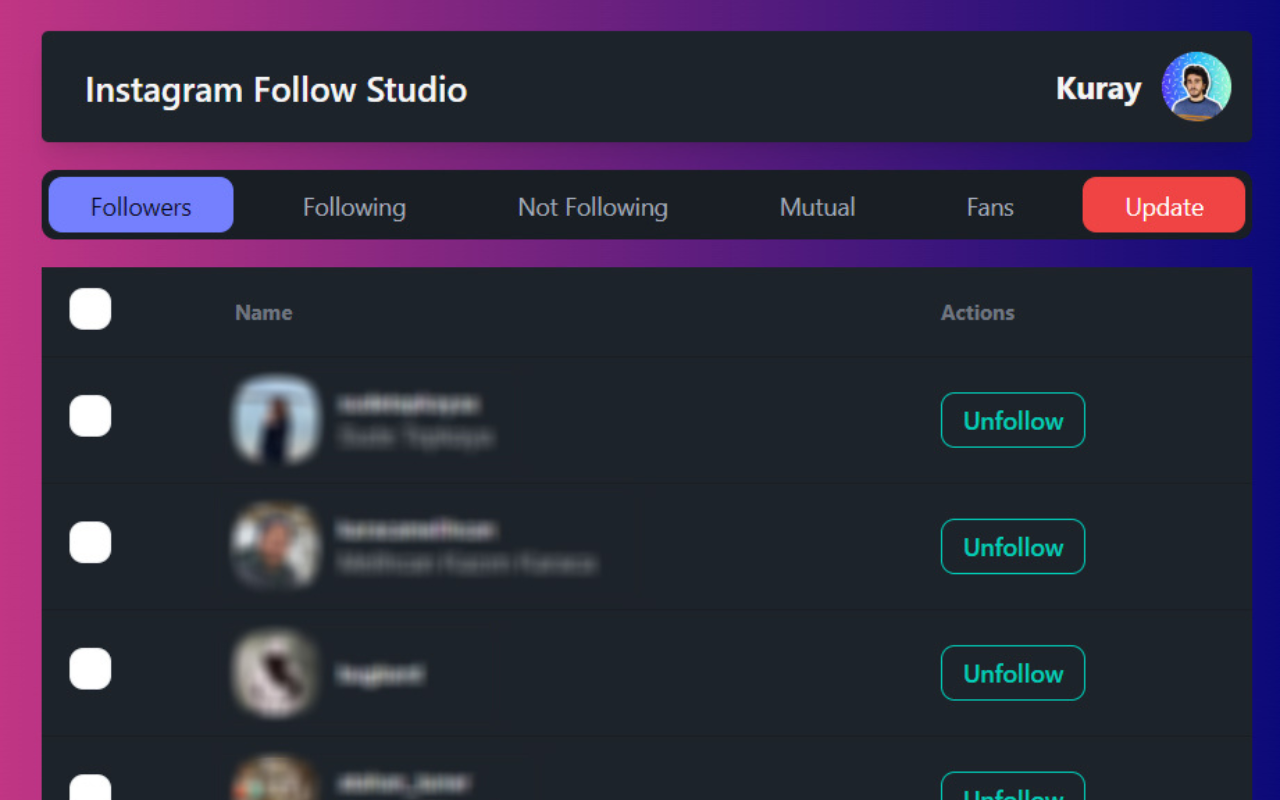
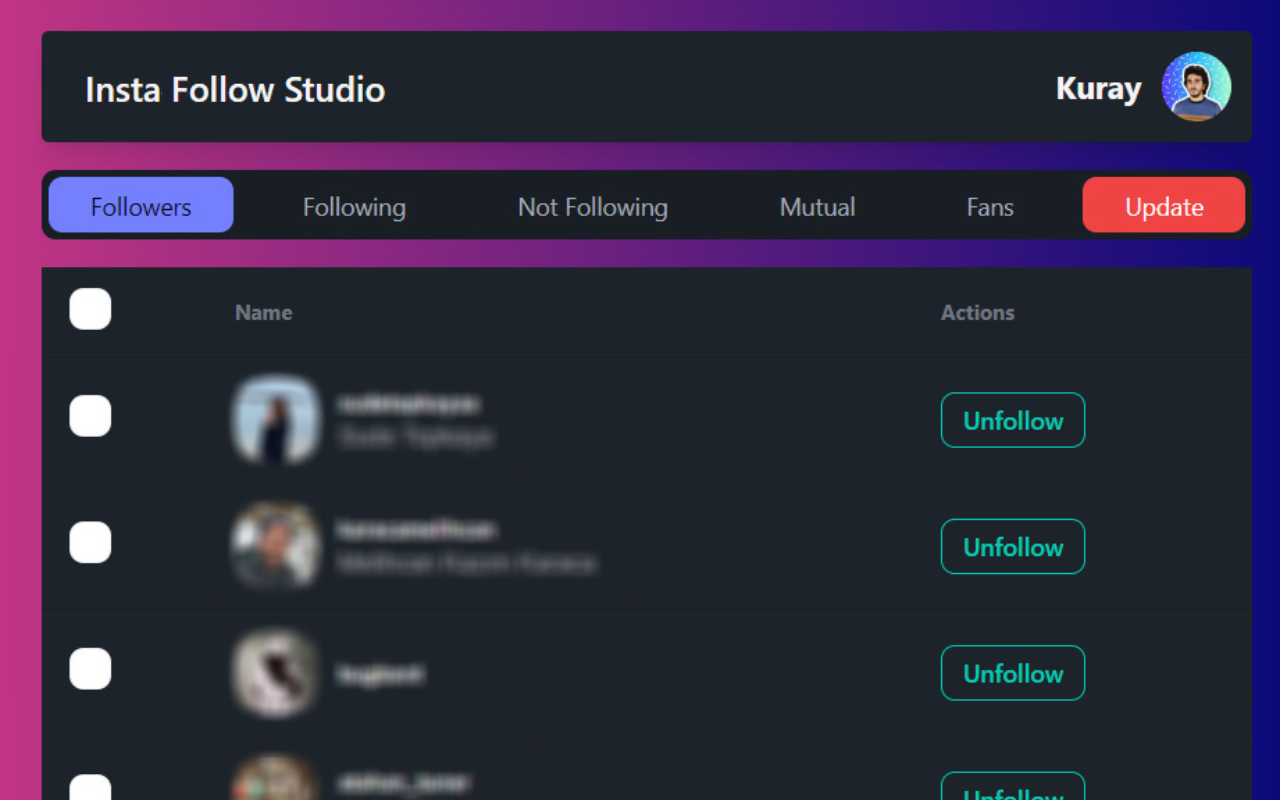
Finalize

Changed region(s): [[0.125, 0.0938, 0.375, 0.1562]]

diff --git a/src/utils/actions.tsx b/src/utils/actions.tsx
@@ -118,14 +118,16 @@ function addUserToStorage(user: User): Promise<User[]> {
 
 async function fetchUserFromAPI(username: string): Promise<User> {
   const fetchUrl = `https://www.instagram.com/${username}/?__a=1&__d=dis`;
+  
 
   try {
     const response = await fetch(fetchUrl);
     const json = await response.json();
 
     const graphql = json?.graphql;
-    const user = json?.graphql?.user;
+    const useritem = json?.graphql?.user;
 
+    const user = useritem?.user;
     console.log(json);
 
     if (graphql === undefined || user === undefined) {
@@ -156,6 +158,49 @@ async function fetchUserFromAPI(username: string): Promise<User> {
     throw error;
   }
 }
+
+async function fetchUserFromSearchAPI(username: string): Promise<User> {
+  const fetchUrl = `https://www.instagram.com/web/search/topsearch/?context=blended&query=${username}&rank_token=0.3953592318270893&include_reel=true`;
+    try {
+      const response = await fetch(fetchUrl);
+      const json = await response.json();
+
+      const users = json?.users;
+      const user = json?.users[0]?.user;
+
+      console.log(json);
+
+      if (users === undefined || user === undefined) {
+        throw new Error('graphql is undefined');
+      }
+
+      if (!user) {
+        throw new Error('user is undefined');
+      }
+
+      const newUser: User = {
+        username: user?.username,
+        id: user?.id,
+        profilePicUrl: user?.profile_pic_url,
+        isPrivate: user?.is_private,
+        isVerified: user?.is_verified,
+        fullName: user?.full_name,
+        biography: user?.biography,
+        externalUrl: "https://www.instagram.com/" + user?.username,
+        followedByCount: 0,
+        followCount: 0,
+      };
+
+      console.log(newUser);
+      
+      return newUser;
+
+    } catch (error) {
+      throw error;
+    }
+  
+}
+
 
 function getSnapshotsFromStorage(): Promise<Snapshot[]> {
   return new Promise<Snapshot[]>((resolve, reject) => {
@@ -248,6 +293,48 @@ async function createSnapshot(user: User): Promise<Snapshot> {
   return snapshot;
 }
 
+async function createSnapshotFromUsername(username: string, userid: string): Promise<Snapshot> {
+
+  var userId = Number(userid);
+  console.log(userId);
+
+  var snapshot: Snapshot = {
+    timestamp: new Date(),
+    userid: userid,
+    followers: [] as ThirdPerson[],
+    following: [] as ThirdPerson[],
+  };
+
+  await counter(userId).then((data) => {
+    // CREATE SNAPSHOT
+
+    data?.followers?.forEach((f: any) => {
+      snapshot.followers.push({
+        username: f?.username,
+        id: f?.pk,
+        profilePicUrl: f?.profile_pic_url,
+        fullName: f?.full_name,
+      });
+    });
+
+    data?.following?.forEach((f: any) => {
+      snapshot.following.push({
+        username: f?.username,
+        id: f?.pk,
+        profilePicUrl: f?.profile_pic_url,
+        fullName: f?.full_name,
+      });
+    });
+
+
+  }).then(() => {
+    addSnapshotToStorage(snapshot);
+  });
+
+  return snapshot;
+}
+
+
 function getUserSnapshots(user: User): Promise<Snapshot[]> {
   return new Promise<Snapshot[]>((resolve, reject) => {
     getSnapshotsFromStorage()
@@ -272,4 +359,6 @@ export {
   createSnapshot,
   getUserSnapshots,
   unfollowUser,
+  fetchUserFromSearchAPI,
+  createSnapshotFromUsername,
 };

diff --git a/src/components/Table.tsx b/src/components/Table.tsx
@@ -2,7 +2,7 @@ import React, { useState, useEffect } from 'react';
 
 import { User, Snapshot, ThirdPerson } from '../utils/types';
 
-import { getUserSnapshots, createSnapshot, unfollowUser } from '../utils/actions';
+import { getUserSnapshots, createSnapshot, unfollowUser , createSnapshotFromUsername} from '../utils/actions';
 
 
 const Table = (user: any) => {
@@ -73,21 +73,46 @@ const Table = (user: any) => {
 
         } catch (error) {
             // Handle the error appropriately
-            setError("Something went wrong. Please try again later.");
+            setError("Something went wrong. Please try again later: " + error);
+
         }
     };
 
 
     const handleSnapshot = async () => {
         try {
-            const snapshot = await createSnapshot(user);
+            //check if user is present
+            const currentUser = user;
+            
+
+            console.log(user);
+            const snapshot = await createSnapshot(currentUser);
             setSnapshot(snapshot);
             setError("");
         } catch (error) {
             // Handle the error appropriately
-            setError("Something went wrong. Please try again later.");
+            setError("Something went wrong. Please try again later: " + error);
         }
     };
+
+    const handleSnapshotNew = async (username: string) => {
+        try {
+            //check if user is present
+            console.log(username);
+            if (user.username !== username) {
+                setError("Please update the user first");
+                return;
+            }
+            
+            const currentUser = await createSnapshotFromUsername(username, user.id);
+            setSnapshot(currentUser);
+            setError("");
+        } catch (error) {
+            // Handle the error appropriately
+            setError("Something went wrong. Please try again later: " + error);
+        }
+    }
+
 
 
     const pageUp = () => {
@@ -129,7 +154,7 @@ const Table = (user: any) => {
                 <a role="tab" className={`tab ${activeTab === 'notFollowing' ? 'tab-active' : ''}`} onClick={() => handleTabClick('notFollowing')}>Not Following</a>
                 <a role="tab" className={`tab ${activeTab === 'mutual' ? 'tab-active' : ''}`} onClick={() => handleTabClick('mutual')}>Mutual</a>
                 <a role="tab" className={`tab ${activeTab === 'fans' ? 'tab-active' : ''}`} onClick={() => handleTabClick('fans')}>Fans</a>
-                <a role="tab" className={`tab bg-red-500 text-white`} onClick={() => handleSnapshot()}>Update</a>
+                <a role="tab" className={`tab bg-red-500 text-white`} onClick={() => handleSnapshotNew(user.username)}>Update FOR {user.username}</a>
             </div>
             <div className="w-full bg-base-100">
 

diff --git a/src/contentScript/Content.tsx b/src/contentScript/Content.tsx
@@ -15,7 +15,7 @@ import './index.css';
 import { User } from '../utils/types';
 
 // Utils
-import { addUserToStorage, fetchUserFromAPI } from '../utils/actions';
+import { addUserToStorage, fetchUserFromAPI, fetchUserFromSearchAPI } from '../utils/actions';
 
 
 export function Content() {
@@ -42,8 +42,13 @@ export function Content() {
     // Fetch user data from API when the username changes
     useEffect(() => {
         const fetchUser = async () => {
-            const user = await fetchUserFromAPI(userName); // Fetch user data from API based on the username
-            setUser(user); // Update the user state with the fetched user data
+            try {
+                const user = await fetchUserFromSearchAPI(userName); // Fetch user data from API based on the username
+                setUser(user); // Update the user state with the fetched user data
+            } catch (error) {
+                console.log(error); 
+                            
+            }
         }
         fetchUser();
     }, [userName]);

diff --git a/src/components/Navbar.tsx b/src/components/Navbar.tsx
@@ -25,7 +25,7 @@ const NavBar = (user: any) => {
     return (
         <div className="navbar bg-base-100 h-16 mb-4 rounded shadow-lg">
             <div className="flex-1">
-                <a className="btn btn-ghost text-xl">Instagram Follow Studio</a>
+                <a className="btn btn-ghost text-xl">Insta Follow Studio</a>
             </div>
             <div className="flex-1">
                 <button className="btn" onClick={setDisabled}>Return to Instagram</button>

diff --git a/src/popup/Popup.tsx b/src/popup/Popup.tsx
@@ -121,7 +121,7 @@ export const Popup = () => {
       <div className="pb-2">
         {/* Title */}
         <p className="text-lg text-white font-bold mb-1">
-          Instagram Follow Studio
+          Insta Follow Studio
         </p>
         {/* Subtext */}
         <p className="text-white">Control your people <button className="text-gray-300 hover:text-white" onClick={ResetStorage}>Reset</button></p>

diff --git a/src/utils/counter.tsx b/src/utils/counter.tsx
@@ -18,6 +18,7 @@ const concatFriendshipsApiResponse: any = async (
     next_max_id = "",
 ) => {
     let url = `https://www.instagram.com/api/v1/friendships/${user_id}/${list}/?count=${count}`;
+    console.log(url);
     if (next_max_id) {
         url += `&max_id=${next_max_id}`;
     }

diff --git a/README.md b/README.md
@@ -1,22 +1,27 @@
-# instafollowstudio
+![Logo](static/logo.png)
 
-> a chrome extension tools built with Vite + React, and Manifest v3
+# InstaFollowStudio Chrome Extension (Unpublished)
 
-## Installing
+## Overview
 
-1. Check if your `Node.js` version is >= **14**.
-2. Change or configurate the name of your extension on `src/manifest`.
-3. Run `npm install` to install the dependencies.
+InstaFollowStudio is a Chrome extension designed to help users track their Instagram followers and unfollowers easily. This extension provides a simple and efficient way to monitor changes in your Instagram followers list, allowing you to stay informed about who follows and unfollows you on the platform.
 
-## Developing
+## Features
 
-run the command
+- **Follow/Unfollow Tracking:** InstaFollowStudio keeps a record of your Instagram followers and unfollowers, providing you with up-to-date information about changes in your follower count.
 
-```shell
-$ cd instafollowstudio
+- **User-Friendly Interface:** InstaFollowStudio offers a user-friendly interface, making it easy for users to navigate and understand their follower analytics effortlessly.
 
-$ npm run dev
-```
+- **Privacy-Focused:** Your Instagram account information is processed locally on your device, ensuring the privacy and security of your data. The extension does not store or share any sensitive information.
+
+#Screenshots
+
+![Screenshot](static/screenshot.png)
+
+## How to Use
+
+1. **Download the Source Code:**
+   - Visit our [GitHub repository](https://github.com/your-username/InstaFollowStudio) to access the source code.
 
 ### Chrome Extension Developer Mode
 
@@ -29,16 +34,45 @@ $ npm run dev
 2. when debugging popup page, open `http://0.0.0.0:3000//popup.html`
 3. when debugging options page, open `http://0.0.0.0:3000//options.html`
 
-## Packing
 
-After the development of your extension run the command
+2. **Install the Extension:**
+   - After installation, click on the extension icon in the Chrome toolbar.
+   - Follow the on-screen instructions to authorize the extension to access your Instagram account.
 
-```shell
-$ npm run build
-```
+3. **Monitor Your Followers:**
+   - Once authorized, the extension will start tracking your Instagram followers and unfollowers.
 
-Now, the content of `build` folder will be the extension ready to be submitted to the Chrome Web Store. Just take a look at the [official guide](https://developer.chrome.com/webstore/publish) to more infos about publishing.
+4. **View Analytics:**
+   - Access the extension dashboard to view detailed analytics of your follower count changes over time.
 
----
+## Support and Feedback
 
-Generated by [create-chrome-ext](https://github.com/guocaoyi/create-chrome-ext)
+If you encounter any issues or have suggestions for improvements, please [submit an issue](https://github.com/kuraykaraaslan/InstaFollowStudio/issues) on our GitHub repository. We appreciate your feedback and will actively work to enhance the extension based on user input.
+
+## Privacy Policy
+
+Read our [Privacy Policy](https://kuray.dev/privacy) to understand how we handle your data and ensure your privacy.
+
+## Contribution
+
+If you are interested in contributing to the development of InstaFollowStudio, please [contact us](https://kuray.dev/contact) to discuss your ideas and suggestions.
+
+
+# Technologies
+
+- React
+- Redux
+- TypeScript
+- Webpack
+- Babel
+- ESLint
+
+# Special Thanks
+
+- [guocaoy](https://github.com/guocaoyi)  for [create-chrome-ext](https://github.com/guocaoyi/create-chrome-ext)
+- [Abir Taheer](https://github.com/abir-taheer) for [instagram-follower-following.js](https://gist.github.com/abir-taheer/0d3f1313def5eec6b78399c0fb69e4b1.js)
+
+## License
+
+This project is licensed under the [MIT License](https://opensource.org/licenses/MIT).
+
